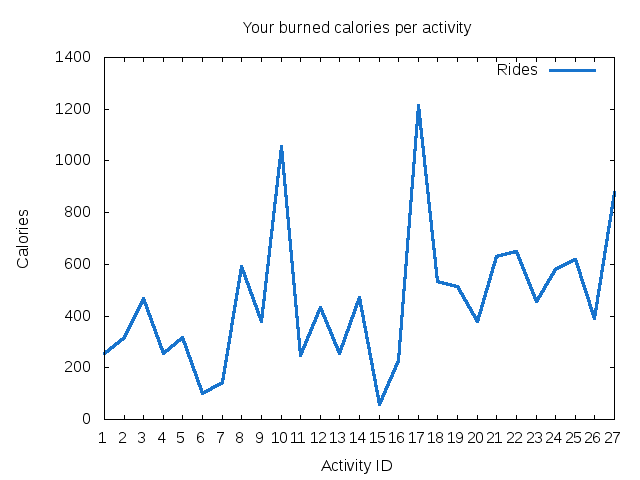
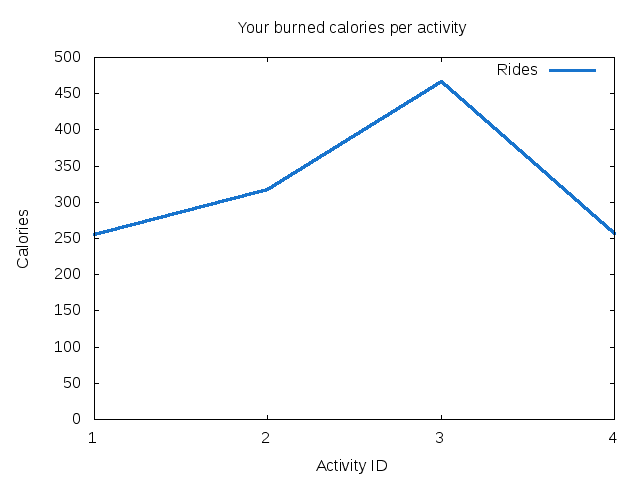
some example data

diff --git a/html/activities.html b/html/activities.html
@@ -50,33 +50,10 @@
 <div id="content">
 <h2>Your Activities</h2>
 <ul>
-<li>27<br>Date:    2012-06-30<br>Distance:    2012-06-30<br>Duration:    27.28<br>Pace:     1.47<br>Speed:      3.56<br>Burned:  15.24<br>Climb:   876<br><br></li>
-<li>26<br>Date:    2012-06-29<br>Distance:    2012-06-29<br>Duration:    7.30<br>Pace:      0.46<br>Speed:      6.22<br>Burned:   9.42<br>Climb:   389<br><br></li>
-<li>25<br>Date:    2012-06-28<br>Distance:    2012-06-28<br>Duration:    17.65<br>Pace:     1.13<br>Speed:      4.11<br>Burned:  14.36<br>Climb:   618<br><br></li>
-<li>24<br>Date:    2012-06-26<br>Distance:    2012-06-26<br>Duration:    16.28<br>Pace:     1.09<br>Speed:      4.17<br>Burned:  14.03<br>Climb:   582<br><br></li>
-<li>23<br>Date:    2012-06-23<br>Distance:    2012-06-23<br>Duration:    14.07<br>Pace:     0.54<br>Speed:      3.54<br>Burned:  15.38<br>Climb:   458<br><br></li>
-<li>22<br>Date:    2012-06-22<br>Distance:    2012-06-22<br>Duration:    18.10<br>Pace:     1.16<br>Speed:      4.15<br>Burned:  14.18<br>Climb:   648<br><br></li>
-<li>21<br>Date:    2012-06-18<br>Distance:    2012-06-18<br>Duration:    16.00<br>Pace:     0.57<br>Speed:      3.15<br>Burned:  16.74<br>Climb:   630<br><br></li>
-<li>20<br>Date:    2012-06-17<br>Distance:    2012-06-17<br>Duration:    11.84<br>Pace:     0.42<br>Speed:      3.37<br>Burned:  16.58<br>Climb:   378<br><br></li>
-<li>19<br>Date:    2012-06-16<br>Distance:    2012-06-16<br>Duration:    14.16<br>Pace:     0.59<br>Speed:      4.12<br>Burned:  14.30<br>Climb:   515<br><br></li>
-<li>18<br>Date:    2012-06-09<br>Distance:    2012-06-09<br>Duration:    14.75<br>Pace:     0.59<br>Speed:      4.01<br>Burned:  14.94<br>Climb:   532<br><br></li>
-<li>17<br>Date:    2012-06-07<br>Distance:    2012-06-07<br>Duration:    31.50<br>Pace:     2.35<br>Speed:      4.57<br>Burned:  12.13<br>Climb:   1214<br><br></li>
-<li>16<br>Date:    2012-06-02<br>Distance:    2012-06-02<br>Duration:    7.17<br>Pace:      0.28<br>Speed:      4.00<br>Burned:  15.02<br>Climb:   230<br><br></li>
-<li>15<br>Date:    2012-06-02<br>Distance:    2012-06-02<br>Duration:    8.68<br>Pace:      0.38<br>Speed:      4.25<br>Burned:  13<br>Climb: 57<br><br></li>
-<li>14<br>Date:    2012-06-02<br>Distance:    2012-06-02<br>Duration:    14.55<br>Pace:     0.51<br>Speed:      3.31<br>Burned:  17.06<br>Climb:   471<br><br></li>
-<li>13<br>Date:    2012-05-26<br>Distance:    2012-05-26<br>Duration:    6.39<br>Pace:      0.37<br>Speed:      5.49<br>Burned:  10.31<br>Climb:   256<br><br></li>
-<li>12<br>Date:    2012-05-22<br>Distance:    2012-05-22<br>Duration:    14.19<br>Pace:     0.52<br>Speed:      3.41<br>Burned:  16.29<br>Climb:   433<br><br></li>
-<li>11<br>Date:    2012-05-17<br>Distance:    2012-05-17<br>Duration:    7.10<br>Pace:      0.34<br>Speed:      4.52<br>Burned:  12.33<br>Climb:   246<br><br></li>
-<li>10<br>Date:    2012-05-01<br>Distance:    2012-05-01<br>Duration:    33.82<br>Pace:     1.34<br>Speed:      2.48<br>Burned:  21.37<br>Climb:   1054<br><br></li>
-<li>9<br>Date:     2011-09-12<br>Distance:     2011-09-12<br>Duration:    10.72<br>Pace:     0.39<br>Speed:      3.38<br>Burned:  16.48<br>Climb:   379<br><br></li>
-<li>8<br>Date:     2011-09-04<br>Distance:     2011-09-04<br>Duration:    17.80<br>Pace:     1.04<br>Speed:      3.39<br>Burned:  16.46<br>Climb:   592<br><br></li>
-<li>7<br>Date:     2011-08-30<br>Distance:     2011-08-30<br>Duration:    3.78<br>Pace:      0.13<br>Speed:      3.38<br>Burned:  16.49<br>Climb:   145<br><br></li>
-<li>6<br>Date:     2011-08-28<br>Distance:     2011-08-28<br>Duration:    3.47<br>Pace:      0.10<br>Speed:      2.55<br>Burned:  20.60<br>Climb:   101<br><br></li>
-<li>5<br>Date:     2011-08-26<br>Distance:     2011-08-26<br>Duration:    9.27<br>Pace:      0.33<br>Speed:      3.40<br>Burned:  16.30<br>Climb:   319<br><br></li>
-<li>4<br>Date:     2011-08-25<br>Distance:     2011-08-25<br>Duration:    8.36<br>Pace:      0.28<br>Speed:      3.25<br>Burned:  17.55<br>Climb:   257<br><br></li>
-<li>3<br>Date:     2011-08-14<br>Distance:     2011-08-14<br>Duration:    11.06<br>Pace:     0.59<br>Speed:      5.25<br>Burned:  11.06<br>Climb:   467<br><br></li>
-<li>2<br>Date:     2011-08-14<br>Distance:     2011-08-14<br>Duration:    7.41<br>Pace:      0.45<br>Speed:      6.09<br>Burned:  9.75<br>Climb:    317<br><br></li>
-<li>1<br>Date:     2011-08-13<br>Distance:     2011-08-13<br>Duration:    5.98<br>Pace:      0.37<br>Speed:      6.20<br>Burned:  9.47<br>Climb:    256<br><br></li>
+<li> 4<br>Date:     2011-08-25<br>Distance:     2011-08-25<br>Duration:    8.36<br>Pace:      0.28<br>Speed:      3.25<br>Burned:  17.55<br>Climb:   257<br><br></li>
+<li> 3<br>Date:     2011-08-14<br>Distance:     2011-08-14<br>Duration:    11.06<br>Pace:     0.59<br>Speed:      5.25<br>Burned:  11.06<br>Climb:   467<br><br></li>
+<li> 2<br>Date:     2011-08-14<br>Distance:     2011-08-14<br>Duration:    7.41<br>Pace:      0.45<br>Speed:      6.09<br>Burned:  9.75<br>Climb:    317<br><br></li>
+<li> 1<br>Date:     2011-08-13<br>Distance:     2011-08-13<br>Duration:    5.98<br>Pace:      0.37<br>Speed:      6.20<br>Burned:  9.47<br>Climb:    256<br><br></li>
 </ul>
 </div> <!-- content -->
 	<div id="footer">

diff --git a/html/overall.html b/html/overall.html
@@ -49,12 +49,12 @@
   </center>
 <div id="content">
 <h2>Overall Stats</h2>
-Climb: 4100 metres of height<br>
-Calories: 12420 <br>
-Distance: 358.68 km<br>
-Speed Average: 14 km/h<br>
-Pace Average: 4 minutes per km<br>
-Duration: 17.79 hours<br>
+Climb: 281 metres of height<br>
+Calories: 1297 <br>
+Distance: 32.81 km<br>
+Speed Average: 11 km/h<br>
+Pace Average: 5 minutes per km<br>
+Duration: 1.69 hours<br>
 </div> <!-- content -->
 	<div id="footer">
       Thanks a lot to GnuPlot and it's developers.<br/>
